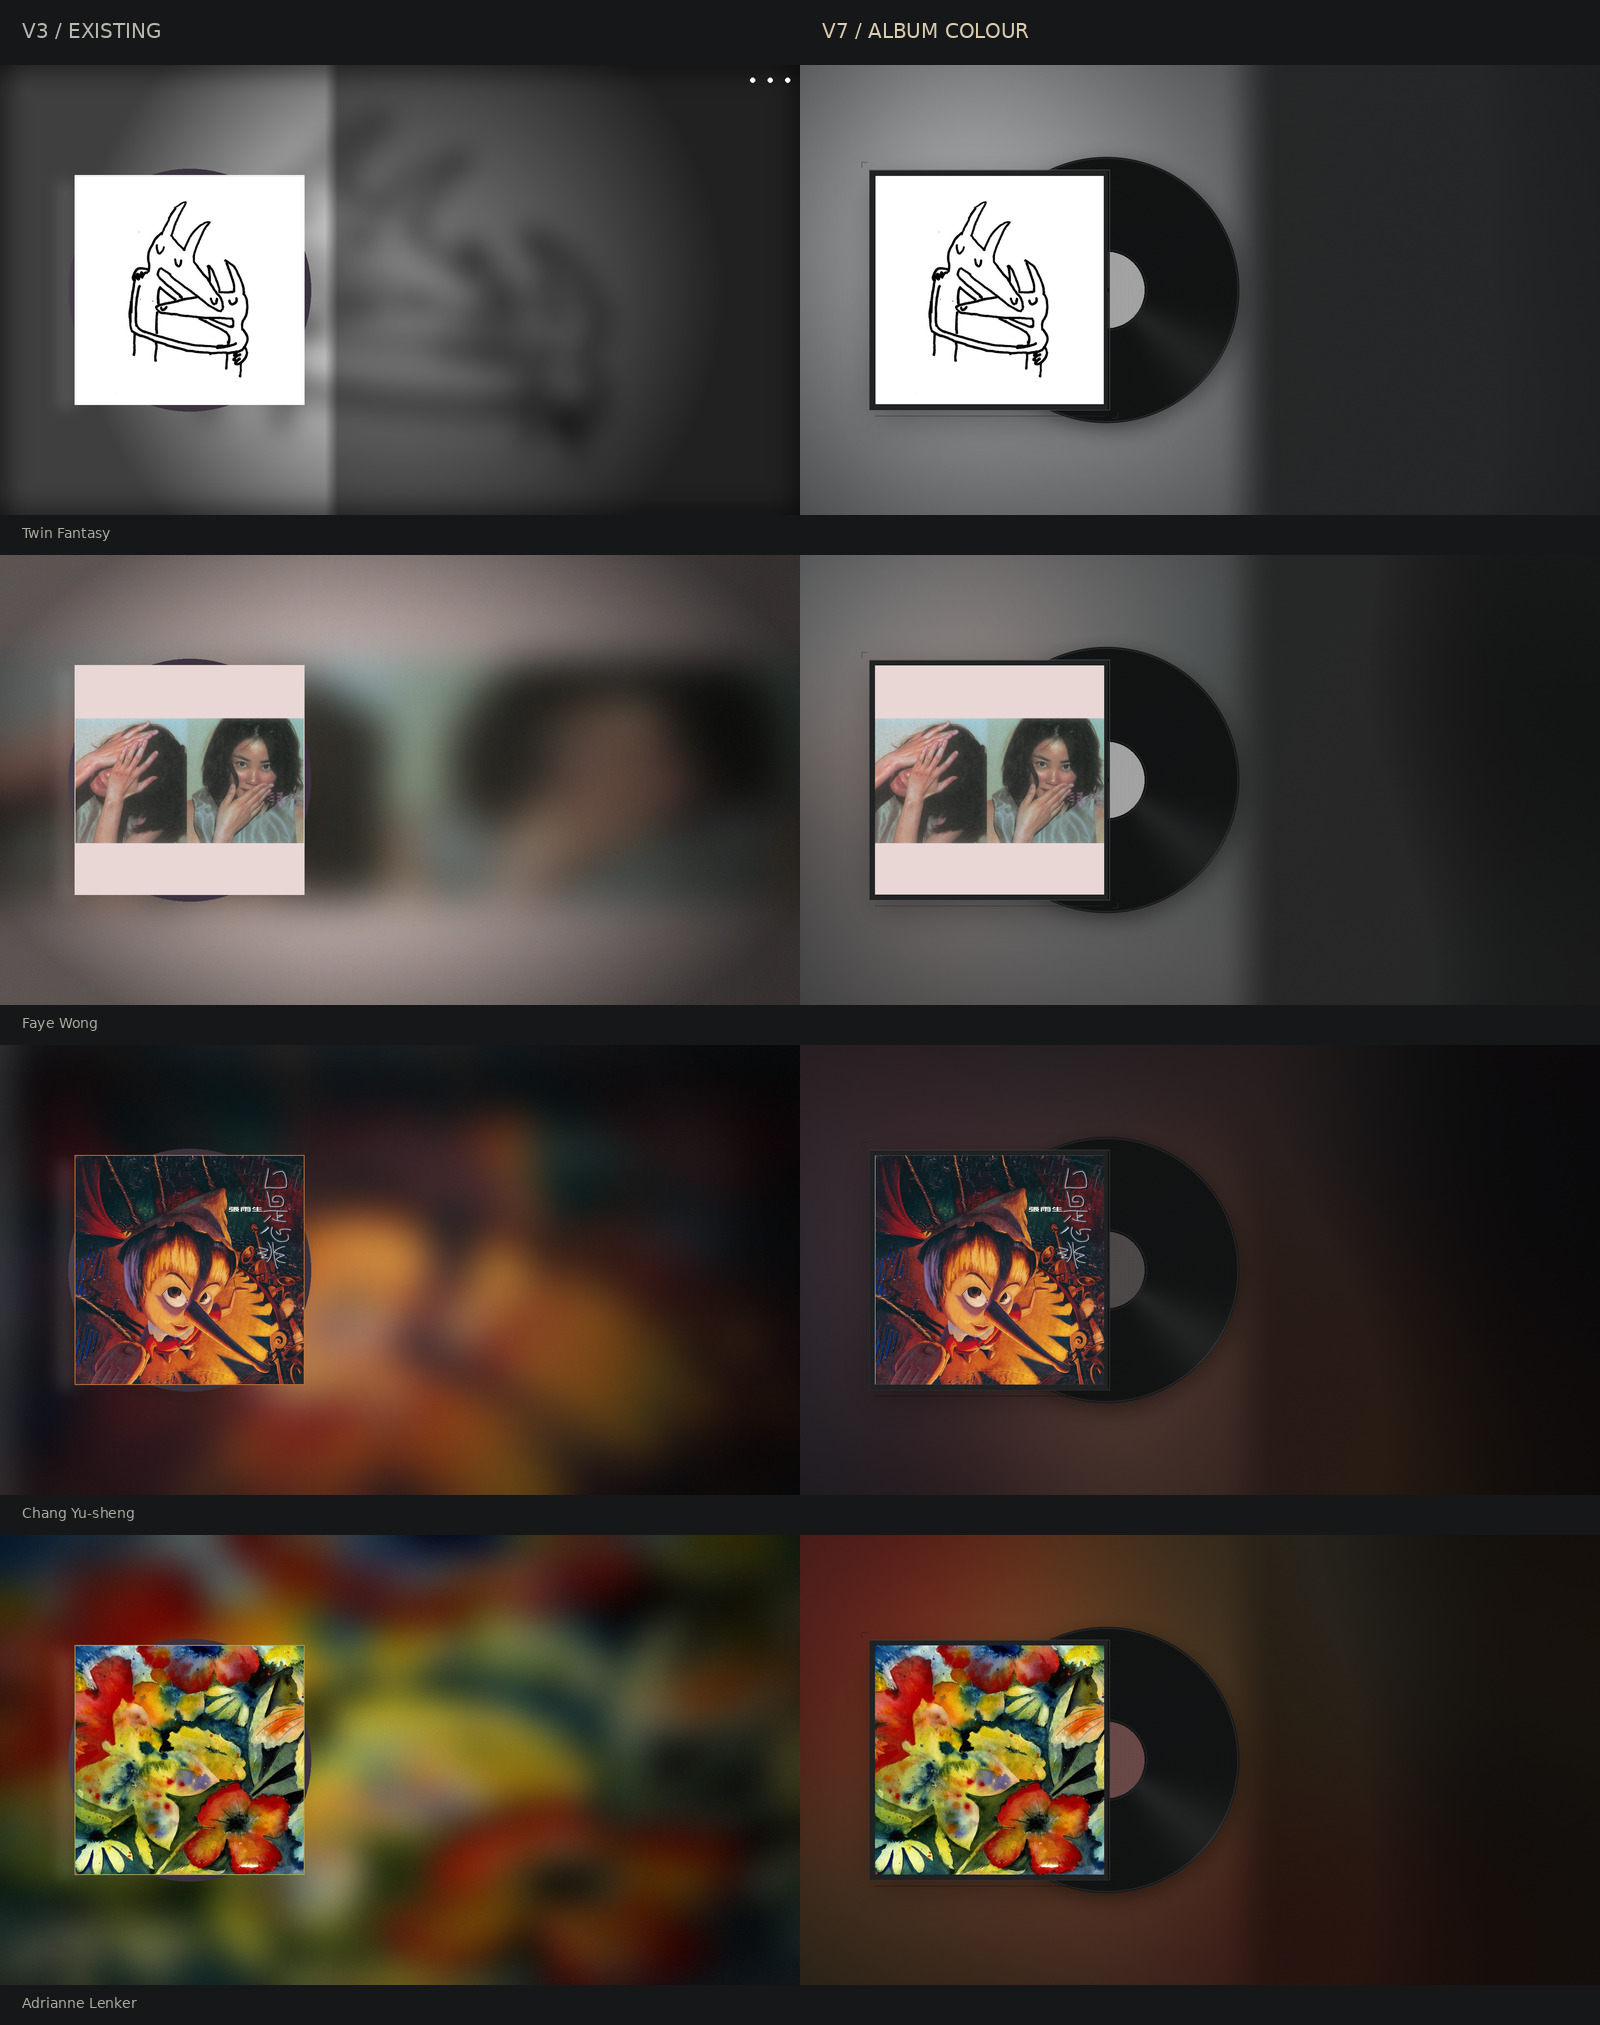
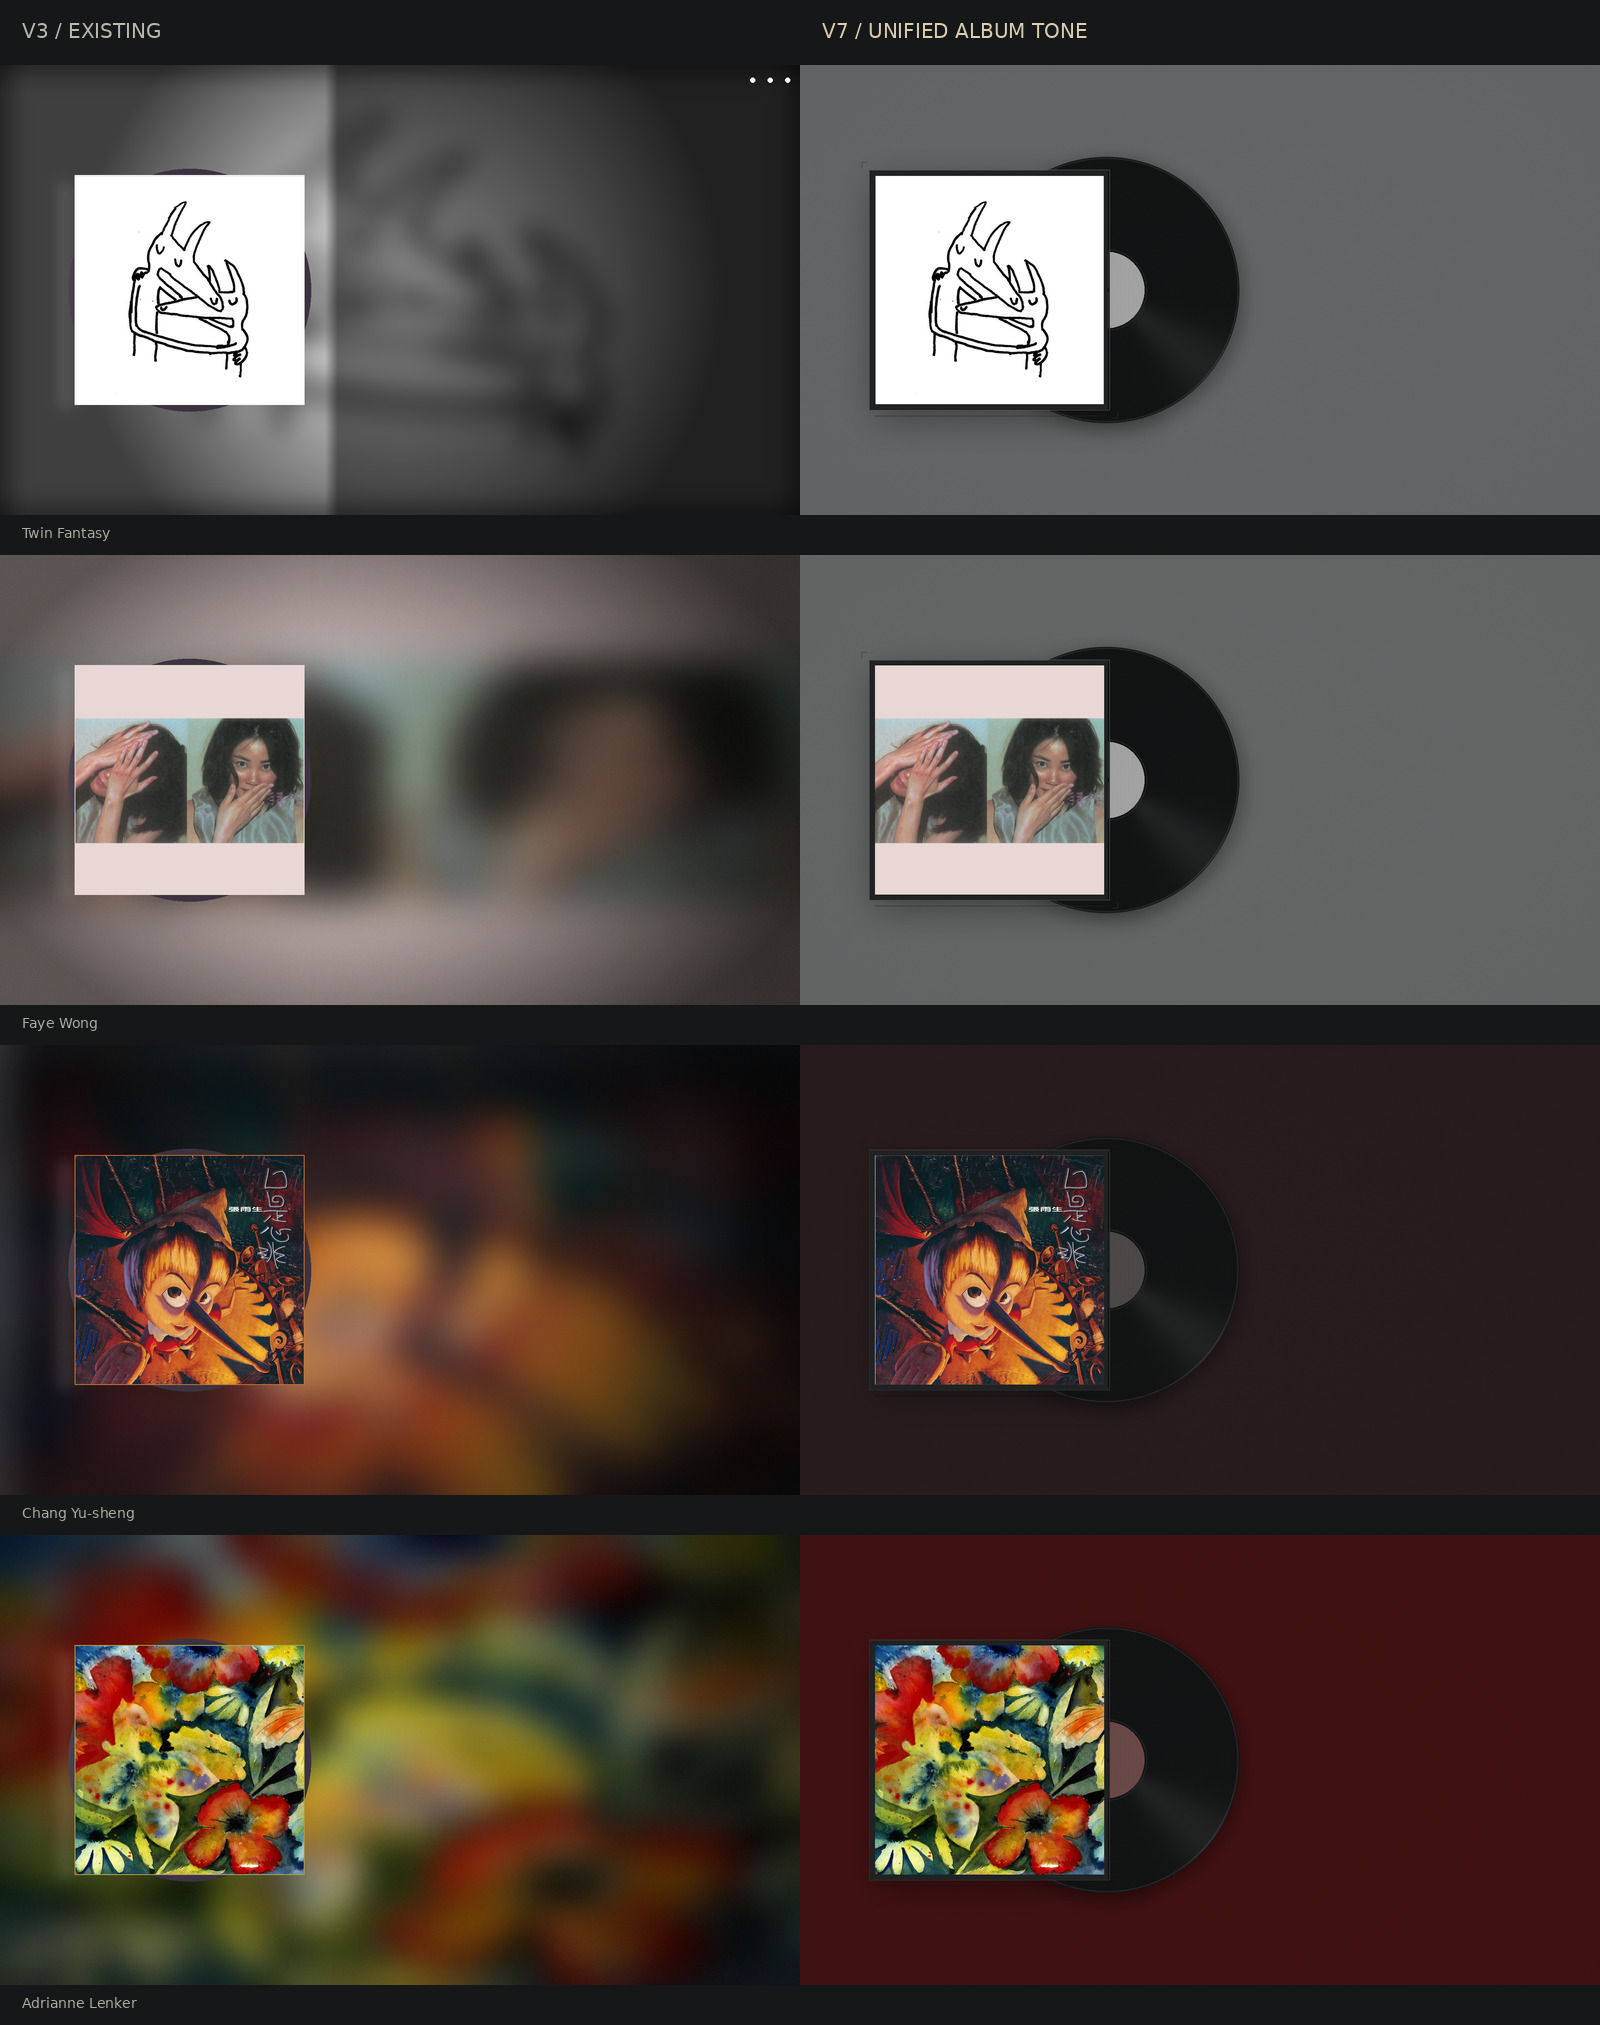
统一 V7 全幅专辑主色，取消左右渐暗与色彩分区

diff --git a/tasks/v-project/_gen_batch_bg_v7.py b/tasks/v-project/_gen_batch_bg_v7.py
@@ -53,34 +53,15 @@ def palette(cover: Image.Image) -> tuple[np.ndarray, np.ndarray]:
 
 
 def background(cover: Image.Image, ambient: np.ndarray, rng: np.random.Generator) -> Image.Image:
-    """Smooth directional light and fine monochrome grain; quiet title-safe right half."""
+    """One album-derived colour across the canvas, with symmetric soft light."""
     y, x = np.mgrid[:H, :W].astype(np.float32)
-    light = np.exp(-(((x - 435) / 620) ** 2 + ((y - 400) / 560) ** 2))
-    lower = np.exp(-(((x - 780) / 760) ** 2 + ((y - 960) / 330) ** 2))
-    arr = np.empty((H, W, 3), dtype=np.float32)
-    arr[:] = (8, 10, 12)
-    arr += ambient * .065
-    arr += light[..., None] * (ambient * .24 + np.array([6, 5, 4]))
-    arr += lower[..., None] * ambient * .12
-    # Broad, source-coloured clouds: retain both dominant and secondary hues.
-    # Blur at low resolution so no source details compete with the cover or titles.
-    memory = ImageOps.fit(cover, (240, 135)).filter(
-        ImageFilter.GaussianBlur(22)).resize((W, H), Image.Resampling.BICUBIC)
-    colour_field = np.asarray(memory, dtype=np.float32)
-    arr += colour_field * .36 * (.58 + .42 * light[..., None])
-    vignette = np.clip(((x - 780) / 1500) ** 2 + ((y - 500) / 1100) ** 2, 0, 1)
-    arr *= (1 - vignette * .2)[..., None]
-    right = np.clip((x - 1050) / 700, 0, 1)
-    right = right * right * (3 - 2 * right)
-    arr *= (1 - .48 * right)[..., None]
-    # Keep hue in the title area while compressing brightness, not each channel.
-    safe = np.clip((x - 1000) / 150, 0, 1)
-    safe = safe * safe * (3 - 2 * safe)
-    peak = arr.max(axis=2)
-    compression = np.minimum(1, 40 / np.maximum(peak, 1))
-    arr *= (1 - safe + safe * compression)[..., None]
-    # Achromatic grain avoids coloured speckles, including in dark encodes.
-    arr += rng.normal(0, .68, (H, W, 1)).astype(np.float32)
+    light = np.exp(-(((x - (W - 1) / 2) / 1200) ** 2 +
+                     ((y - (H - 1) / 2) / 800) ** 2))
+    # The entire canvas shares one hue and one brightness treatment.
+    # No right-hand fade, local colour clouds, or title-zone compression.
+    base = ambient * .43 + np.array([8, 9, 10], dtype=np.float32)
+    arr = base * (.97 + .03 * light[..., None])
+    arr += rng.normal(0, .6, (H, W, 1)).astype(np.float32)
     return Image.fromarray(np.clip(arr, 0, 255).astype(np.uint8))
 
 

diff --git a/tasks/v-project/tests/test_bg_v7.py b/tasks/v-project/tests/test_bg_v7.py
@@ -22,9 +22,9 @@ class RenderTests(unittest.TestCase):
         self.assertEqual(image.mode, 'RGB')
         self.assertEqual(image.crop((180, 265, 730, 815)).tobytes(), cover.tobytes())
         right = np.asarray(image)[200:880, 1150:1800]
-        self.assertLess(float(np.quantile(right, .99)), 45)
+        self.assertLess(float(np.quantile(right, .99)), 120)
         luminance = right @ np.array([.2126, .7152, .0722])
-        self.assertLess(float(luminance.std()), 10)
+        self.assertLess(float(luminance.std()), 3)
         self.assertEqual(hashlib.sha256(image.tobytes()).digest(),
                          hashlib.sha256(v7.render(cover).tobytes()).digest())
 
@@ -54,6 +54,16 @@ class RenderTests(unittest.TestCase):
         mono = v7.render(Image.new('RGB', (550, 550), (160, 160, 160)))
         mono_mean = np.asarray(mono)[60:210, 150:1050].mean(axis=(0, 1))
         self.assertLess(float(mono_mean.max() - mono_mean.min()), 6)
+
+    def test_background_has_no_left_right_colour_split(self):
+        cover = Image.new('RGB', (550, 550), (190, 50, 35))
+        ImageDraw.Draw(cover).rectangle((275, 0, 549, 549), fill=(25, 90, 180))
+        ambient, _ = v7.palette(cover)
+        image = np.asarray(v7.background(cover, ambient, np.random.default_rng(42)), dtype=float)
+        left = image[:, :640].mean(axis=(0, 1))
+        right = image[:, -640:].mean(axis=(0, 1))
+        self.assertLess(float(np.abs(left - right).max()), .2)
+        self.assertLess(float(np.abs(image[:, 950].mean(axis=0) - left).max()), 3)
 
     def test_exif_rotation_is_applied_before_square_crop(self):
         with tempfile.TemporaryDirectory() as temp:

diff --git a/tasks/v-project/VERSION_HISTORY.md b/tasks/v-project/VERSION_HISTORY.md
@@ -9,6 +9,7 @@
 - 根据封面的色彩群提取环境光；白色、黑色占比过高时退化为中性色。
 - 2026-10-19 配色修订：保留 V7 全部布局与唱片材质，提高主色保留率，加入大尺度柔焦封面色域，使主色与次色融入背景；右侧按统一比例压低 RGB 亮度，保留色相。
 - 新增红/蓝封面色相响应及灰阶封面中性测试；修订前后对比见 `output/bg_v7/preview/color-comparison.jpg`。
+- 同日再次按用户反馈修订：背景全幅统一使用专辑主色，取消右侧渐暗、局部多色云雾与叠字区亮度压缩；对称柔光变化仅 3%。新增左右背景平均 RGB 一致性测试；此修订取代上一条配色方案。
 - 右侧 x≥1100 以低亮度留白为主，不烘焙专辑名、歌词、商标或额外文案。
 - 封面在光影处理后原样贴入，不叠加颗粒、色温或反光。
 - EXIF 朝向与透明图片处理；像素哈希作为随机种子，改文件名不影响输出。

diff --git a/tasks/v-project/README.md b/tasks/v-project/README.md
@@ -4,7 +4,7 @@
 
 ## V7 · 深夜唱片内封
 
-2026-10-19 新增静态艺术版本：哑光封套、半露黑胶、细密沟槽、柔和投影和专辑配色环境光。背景融合封面的主色与次色，以大尺度柔焦色域自然扩散；封面保持原色，右侧保留带色相的暗色叠字空间。无预置标题、歌词或品牌文字。
+2026-10-19 新增静态艺术版本：哑光封套、半露黑胶、细密沟槽、柔和投影和专辑配色环境光。整个背景统一使用专辑主色调，左右采用相同的亮度处理，只保留极轻的对称柔光与细颗粒；封面保持原色，右侧保留叠字空间。无预置标题、歌词或品牌文字。
 
 ![V3 与 V7 对比](output/bg_v7/preview/comparison.jpg)
 
